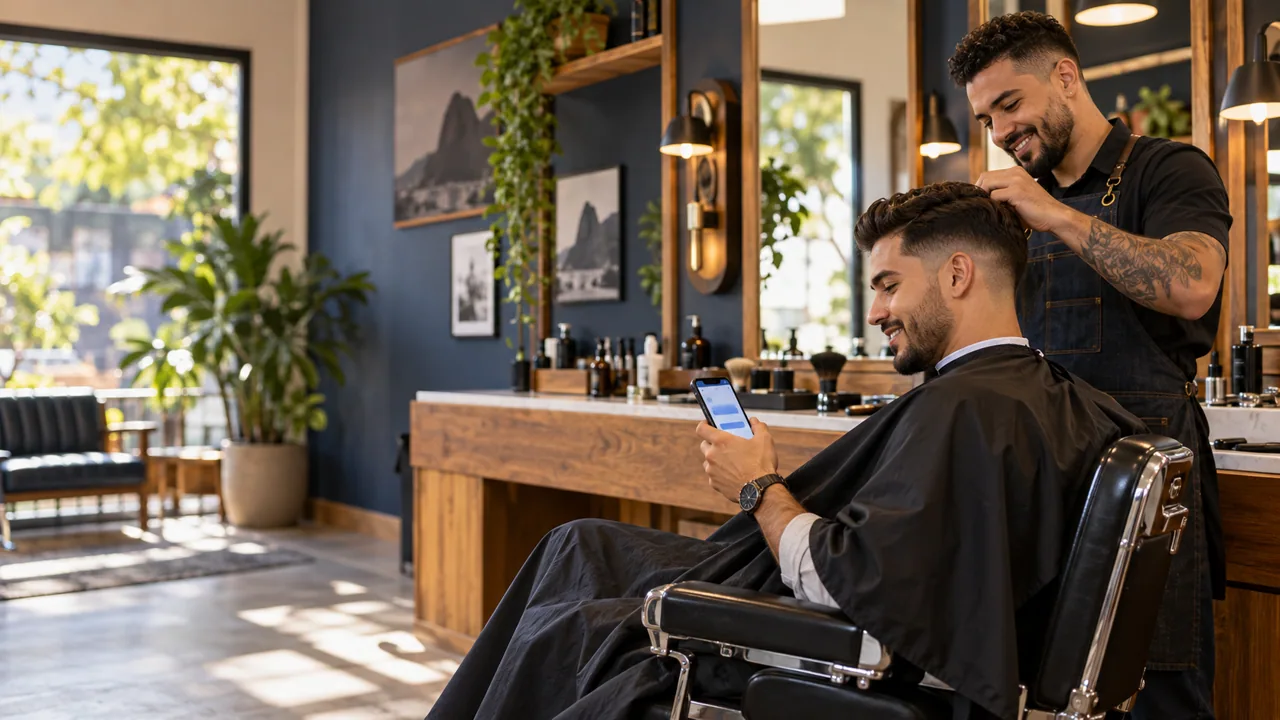
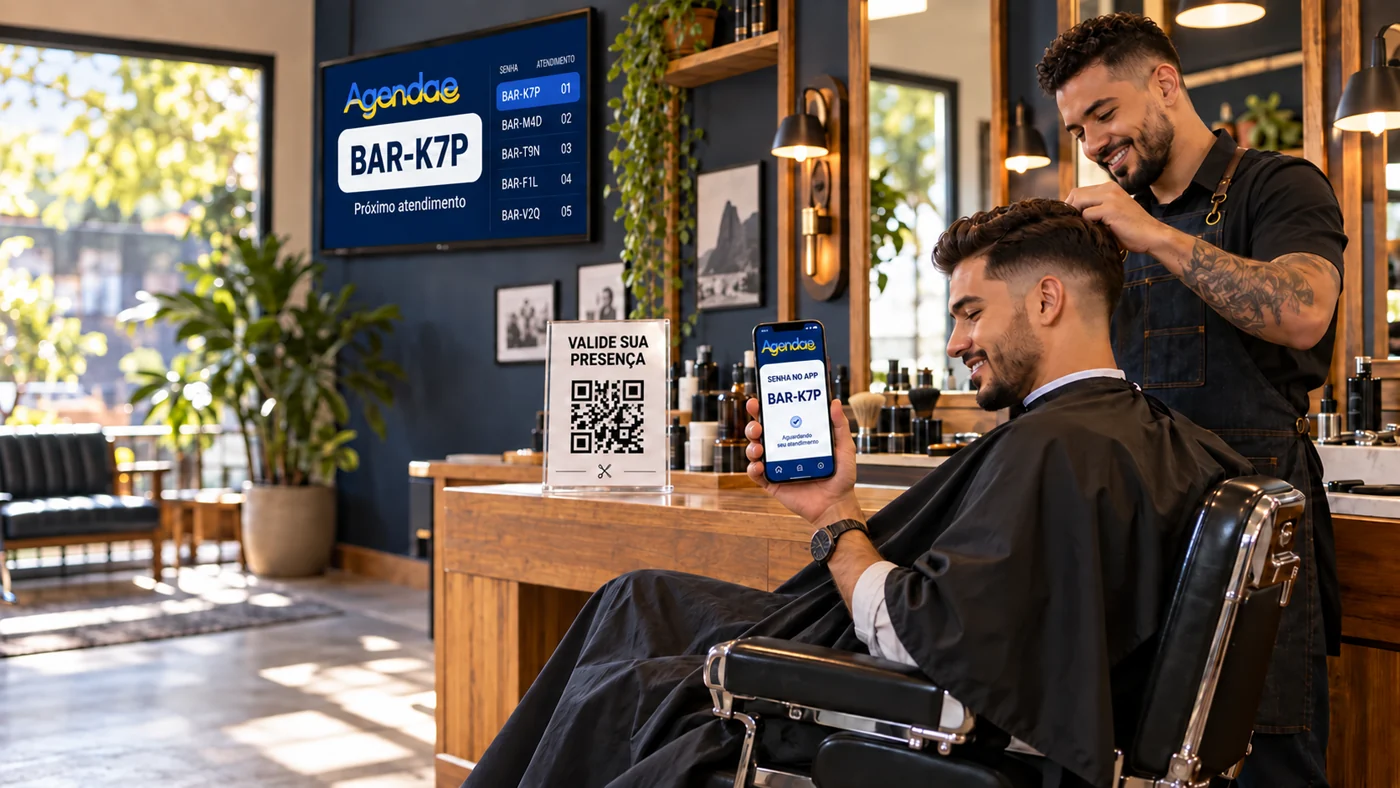
Integrate app tickets and QR signs into scenes

diff --git a/professional.js b/professional.js
@@ -407,15 +407,12 @@ function renderHome() {
   document.title = "Agendae — Sistema de agendamento para seu negócio";
   const partners = Object.values(establishments).filter(item => item.setupComplete !== false);
   const partnerOptions = partners.map(item => `<option value="${escapeHTML(item.slug)}">${escapeHTML(item.name)}</option>`).join("");
-  const barberQr = qrCodeMarkup("Agendae | Demonstração | Validar presença | Barbearia", "portfolio-qr-code");
-  const clinicQr = qrCodeMarkup("Agendae | Demonstração | Validar presença | Clínica", "portfolio-qr-code");
-  const foodQr = qrCodeMarkup("Agendae | Demonstração | Validar presença | Fast food", "portfolio-qr-code");
   app.innerHTML = `
     ${homeHeader()}
     <main class="portfolio-home">
-      <section class="portfolio-feature portfolio-barber" aria-labelledby="portfolio-barber-title"><div class="portfolio-feature-inner"><div class="portfolio-feature-copy"><span>BARBEARIAS</span><h1 id="portfolio-barber-title">Agende os atendimentos da sua barbearia</h1><p>O cliente escolhe o serviço e o profissional, recebe a senha no aplicativo e valida a presença pelo QR code.</p><div class="portfolio-feature-tags"><b>Serviços</b><b>Funcionários</b><b>Agendamento online</b></div>${whatsappSalesCta()}</div><div class="portfolio-feature-media"><img src="${href("/public/imagens/portfolio-barbearia.webp")}" alt="Cliente consulta a senha no aplicativo em uma barbearia"><div class="portfolio-wall-display"><small>PAINEL DA BARBEARIA</small><strong>MESMA SENHA NO PAINEL</strong><b class="portfolio-ticket-code">BAR-K7P</b><span>Próximo atendimento</span></div><div class="portfolio-app-card"><small>AGENDAMENTO CONFIRMADO</small><strong>Serviço e profissional</strong><label><span class="portfolio-app-icon">✦</span><span>Corte e acabamento<em>Profissional selecionado</em></span></label><div class="portfolio-presence-row"><span class="portfolio-app-password"><small>SENHA NO APP</small><strong>BAR-K7P</strong></span><span class="portfolio-qr-wrap">${barberQr}<em>Validar presença</em></span></div></div></div></div></section>
-      <section class="portfolio-feature portfolio-clinic" aria-labelledby="portfolio-clinic-title"><div class="portfolio-feature-inner"><div class="portfolio-feature-copy"><span>CLÍNICAS</span><h2 id="portfolio-clinic-title">Agenda clínica mais organizada com controle de pausas e senhas por especializações e profissionais</h2><p>Organize a rotina da clínica e permita que cada paciente acompanhe no aplicativo a mesma senha exibida no painel.</p><div class="portfolio-feature-tags"><b>Controle de pausas</b><b>Especializações</b><b>Profissionais</b></div>${whatsappSalesCta()}</div><div class="portfolio-feature-media"><img src="${href("/public/imagens/portfolio-clinica.webp")}" alt="Paciente consulta a senha no aplicativo em uma clínica com painel digital"><div class="portfolio-wall-display"><small>PAINEL DA CLÍNICA</small><strong>MESMA SENHA NO PAINEL</strong><b class="portfolio-ticket-code">CLN-A7K</b><span>Aguardando chamada</span></div><div class="portfolio-app-card portfolio-status-card"><small>SEU AGENDAMENTO</small><strong>Consulta confirmada</strong><span class="portfolio-status">Aguardando chamada</span><div class="portfolio-presence-row"><span class="portfolio-app-password"><small>SENHA NO APP</small><strong>CLN-A7K</strong></span><span class="portfolio-qr-wrap">${clinicQr}<em>Validar presença</em></span></div></div></div></div></section>
-      <section class="portfolio-feature portfolio-food" aria-labelledby="portfolio-food-title"><div class="portfolio-feature-inner"><div class="portfolio-feature-copy"><span>FAST FOOD</span><h2 id="portfolio-food-title">Painel de Senhas. Controle a ordem dos seus clientes, mais conforto para todos!</h2><p>A equipe controla a sequência dos pedidos enquanto cada cliente acompanha no aplicativo a mesma senha chamada no painel.</p><div class="portfolio-feature-tags"><b>Senhas do dia</b><b>Fila organizada</b><b>Painel de retirada</b></div>${whatsappSalesCta()}</div><div class="portfolio-feature-media"><img src="${href("/public/imagens/portfolio-fast-food.webp")}" alt="Clientes acompanham a senha no aplicativo em um fast food com painel digital"><div class="portfolio-wall-display"><small>PAINEL DE SENHAS</small><strong>MESMA SENHA NO PAINEL</strong><b class="portfolio-ticket-code">PED-M4Q</b><span>Dirija-se ao balcão</span></div><div class="portfolio-app-card portfolio-status-card food"><small>SENHAS DO DIA</small><strong>Pedido em chamada</strong><span class="portfolio-status">Retirada no balcão</span><div class="portfolio-presence-row"><span class="portfolio-app-password"><small>SENHA NO APP</small><strong>PED-M4Q</strong></span><span class="portfolio-qr-wrap">${foodQr}<em>Validar presença</em></span></div></div></div></div></section>
+      <section class="portfolio-feature portfolio-barber" aria-labelledby="portfolio-barber-title"><div class="portfolio-feature-inner"><div class="portfolio-feature-copy"><span>BARBEARIAS</span><h1 id="portfolio-barber-title">Agende os atendimentos da sua barbearia</h1><p>O cliente escolhe o serviço e o profissional, recebe a senha no aplicativo e valida a presença pelo QR code.</p><div class="portfolio-feature-tags"><b>Serviços</b><b>Funcionários</b><b>Agendamento online</b></div>${whatsappSalesCta()}</div><div class="portfolio-feature-media"><img src="${href("/public/imagens/portfolio-barbearia.webp")}" alt="Barbearia com aplicativo Agendae no celular, a mesma senha no painel do estabelecimento e placa física com QR code"></div></div></section>
+      <section class="portfolio-feature portfolio-clinic" aria-labelledby="portfolio-clinic-title"><div class="portfolio-feature-inner"><div class="portfolio-feature-copy"><span>CLÍNICAS</span><h2 id="portfolio-clinic-title">Agenda clínica mais organizada com controle de pausas e senhas por especializações e profissionais</h2><p>Organize a rotina da clínica e permita que cada paciente acompanhe no aplicativo a mesma senha exibida no painel.</p><div class="portfolio-feature-tags"><b>Controle de pausas</b><b>Especializações</b><b>Profissionais</b></div>${whatsappSalesCta()}</div><div class="portfolio-feature-media"><img src="${href("/public/imagens/portfolio-clinica.webp")}" alt="Clínica com aplicativo Agendae no celular, a mesma senha no painel do estabelecimento e placa física com QR code"></div></div></section>
+      <section class="portfolio-feature portfolio-food" aria-labelledby="portfolio-food-title"><div class="portfolio-feature-inner"><div class="portfolio-feature-copy"><span>FAST FOOD</span><h2 id="portfolio-food-title">Painel de Senhas. Controle a ordem dos seus clientes, mais conforto para todos!</h2><p>A equipe controla a sequência dos pedidos enquanto cada cliente acompanha no aplicativo a mesma senha chamada no painel.</p><div class="portfolio-feature-tags"><b>Senhas do dia</b><b>Fila organizada</b><b>Painel de retirada</b></div>${whatsappSalesCta()}</div><div class="portfolio-feature-media"><img src="${href("/public/imagens/portfolio-fast-food.webp")}" alt="Fast food com aplicativo Agendae no celular, a mesma senha no painel do estabelecimento e placa física com QR code"></div></div></section>
       <section class="portfolio-product" aria-labelledby="portfolio-product-title"><div class="portfolio-product-inner"><div class="portfolio-section-title"><span>PÁGINA DO ESTABELECIMENTO</span><h2 id="portfolio-product-title">Tudo que o cliente precisa para escolher.</h2></div><div class="portfolio-product-grid"><article class="portfolio-product-card portfolio-map-card"><div><small>LOCALIZAÇÃO</small><h3>Mapa do estabelecimento</h3><p>O cliente encontra o endereço do atendimento diretamente na página.</p></div><svg viewBox="0 0 420 220" role="img" aria-label="Ilustração de mapa com a localização do estabelecimento"><rect width="420" height="220" fill="#eaf0e8"/><path d="M0 38 121 0h65L34 220H0ZM234 0h42L152 220H107ZM395 0h25v57L312 220h-48Z" fill="#d7e7d2"/><path d="M-14 149 434 47M80-20l131 260M299-20l-56 260M-18 205 438 119" stroke="#fff" stroke-width="25"/><path d="M-14 149 434 47M80-20l131 260M299-20l-56 260M-18 205 438 119" stroke="#c6d4df" stroke-width="2"/><circle cx="252" cy="102" r="28" fill="#d7e7fb"/><path d="M252 75a20 20 0 0 0-20 20c0 17 20 37 20 37s20-20 20-37a20 20 0 0 0-20-20Z" fill="#2059b6"/><circle cx="252" cy="95" r="7" fill="#fff"/></svg><strong class="portfolio-address">Endereço do seu estabelecimento</strong></article><article class="portfolio-product-card"><small>SERVIÇOS</small><h3>Catálogo de atendimentos</h3><div class="portfolio-demo-list"><span class="portfolio-app-icon">✦</span><span><strong>Serviço principal</strong><em>Descrição do atendimento</em></span></div><div class="portfolio-demo-list"><span class="portfolio-app-icon">◇</span><span><strong>Atendimento personalizado</strong><em>Disponível para agendamento</em></span></div></article><article class="portfolio-product-card"><small>FUNCIONÁRIOS</small><h3>Equipe do estabelecimento</h3><div class="portfolio-demo-list"><span class="portfolio-avatar">A</span><span><strong>Profissional especializado</strong><em>Escolha para seu atendimento</em></span></div><div class="portfolio-demo-list"><span class="portfolio-avatar green">B</span><span><strong>Equipe disponível</strong><em>Perfis apresentados ao cliente</em></span></div></article></div></div></section>
       <section class="home-partners portfolio-partners"><div><span>ACESSO À AGENDA</span><h2>Estabelecimentos Parceiros</h2><p>Selecione um estabelecimento para abrir sua página.</p></div><div class="partner-field"><label for="partner-select">Estabelecimentos Parceiros</label><select id="partner-select" ${partners.length ? "" : "disabled"}><option value="">${!catalogLoaded ? "Carregando estabelecimentos…" : partners.length ? "Selecione um estabelecimento" : "Nenhum parceiro disponível"}</option>${partnerOptions}</select></div></section>
     </main>${systemAccessModal()}`;

diff --git a/professional.css b/professional.css
@@ -172,33 +172,11 @@ img { display: block; max-width: 100%; }
 .portfolio-feature-media { position: relative; min-height: 500px; overflow: hidden; border-radius: 24px; background: #dfe8f3; box-shadow: 0 28px 65px rgba(12,42,91,.15); }
 .portfolio-feature-media::after { content: ""; position: absolute; inset: 0; background: linear-gradient(100deg,rgba(7,27,63,.08),transparent 55%); pointer-events: none; }
 .portfolio-feature-media>img { width: 100%; height: 500px; object-fit: cover; }
-.portfolio-app-card { position: absolute; z-index: 2; left: 22px; bottom: 22px; width: min(310px,calc(100% - 44px)); padding: 18px; border: 1px solid rgba(255,255,255,.8); border-radius: 15px; background: rgba(255,255,255,.96); box-shadow: 0 18px 38px rgba(7,27,63,.25); backdrop-filter: blur(8px); }
-.portfolio-app-card>small { display: block; margin-bottom: 6px; color: var(--blue); font-size: 8px; font-weight: 800; letter-spacing: 1px; }
-.portfolio-app-card>strong { display: block; margin: 10px 0 6px; color: var(--navy); font: 800 13px "Manrope",sans-serif; }
-.portfolio-app-card>label { padding: 9px; display: flex; align-items: center; gap: 9px; border: 1px solid #e1e8f2; border-radius: 9px; color: #263954; background: #fbfdff; font-size: 10px; font-weight: 800; }
-.portfolio-app-card label+strong { margin-top: 13px; }
-.portfolio-app-card label em,.portfolio-demo-list em { display: block; margin-top: 2px; color: #8795a8; font-size: 8px; font-style: normal; font-weight: 600; }
+.portfolio-clinic .portfolio-feature-media>img,.portfolio-food .portfolio-feature-media>img { object-position: 70% center; }
+.portfolio-demo-list em { display: block; margin-top: 2px; color: #8795a8; font-size: 8px; font-style: normal; font-weight: 600; }
 .portfolio-app-icon,.portfolio-avatar { width: 30px; height: 30px; display: grid; place-items: center; flex: 0 0 auto; border-radius: 8px; color: var(--blue); background: #e7f0ff; font-size: 14px; font-weight: 800; }
 .portfolio-avatar { color: #fff; background: var(--navy-2); font-size: 10px; }
 .portfolio-avatar.green { background: #238263; }
-.portfolio-status-card>strong { margin-top: 3px; font-size: 16px; }
-.portfolio-status { margin: 12px 0 9px; padding: 11px; display: block; border: 1px solid #dbe7f5; border-radius: 9px; color: var(--navy); background: #f3f8ff; font-size: 11px; font-weight: 800; }
-.portfolio-status-card>em { color: #718299; font-size: 9px; font-style: normal; }
-.portfolio-status-card.food .portfolio-status { border-color: #eedca2; color: #775313; background: #fff9e9; }
-.portfolio-wall-display { position: absolute; z-index: 2; top: 22px; right: 22px; width: 210px; padding: 17px; border: 1px solid rgba(255,255,255,.25); border-radius: 13px; color: #fff; background: rgba(7,27,63,.92); box-shadow: 0 16px 32px rgba(7,27,63,.25); }
-.portfolio-wall-display small,.portfolio-wall-display strong,.portfolio-wall-display span,.portfolio-wall-display b { display: block; }
-.portfolio-wall-display small { color: #b8cdec; font-size: 8px; font-weight: 800; letter-spacing: 1px; }
-.portfolio-wall-display strong { margin-top: 7px; color: #dbe7f7; font: 800 9px "Manrope",sans-serif; letter-spacing: .5px; }
-.portfolio-ticket-code { margin-top: 5px; color: #fff; font: 800 28px/1 "Manrope",sans-serif; letter-spacing: 1px; }
-.portfolio-wall-display span { margin-top: 4px; color: #dbe7f7; font-size: 10px; }
-.portfolio-presence-row { margin-top: 13px; padding-top: 12px; display: flex; align-items: center; justify-content: space-between; gap: 14px; border-top: 1px solid #dce5f1; }
-.portfolio-app-password small,.portfolio-app-password strong { display: block; }
-.portfolio-app-password small { color: #61738b; font-size: 8px; font-weight: 800; letter-spacing: .7px; }
-.portfolio-app-password strong { margin-top: 3px; color: var(--navy); font: 800 21px/1 "Manrope",sans-serif; letter-spacing: .6px; }
-.portfolio-qr-wrap { display: flex; align-items: center; gap: 8px; }
-.portfolio-qr-wrap em { max-width: 52px; color: #52657e; font-size: 8px; font-style: normal; font-weight: 800; line-height: 1.2; }
-.portfolio-qr-code { width: 54px; height: 54px; padding: 3px; display: grid; place-items: center; overflow: hidden; border: 1px solid #dbe4f0; border-radius: 6px; background: #fff; }
-.portfolio-qr-code svg { width: 100%; height: 100%; display: block; }
 .portfolio-clinic .portfolio-feature-copy h2,.portfolio-food .portfolio-feature-copy h2 { font-size: clamp(29px,3.1vw,43px); }
 .portfolio-product { padding: 92px 0; background: #071b3f; }
 .portfolio-product-inner { width: min(1180px,calc(100% - 48px)); margin: auto; }
@@ -249,9 +227,8 @@ img { display: block; max-width: 100%; }
   .portfolio-whatsapp-button { width: 100%; }
   .portfolio-feature-media,.portfolio-feature-media>img { min-height: 410px; height: 410px; }
   .portfolio-feature-media>img { object-position: 57% center; }
-  .portfolio-app-card { left: 12px; bottom: 12px; width: calc(100% - 24px); padding: 14px; }
-  .portfolio-wall-display { top: 12px; right: 12px; width: 170px; padding: 12px; }
-  .portfolio-ticket-code { font-size: 23px; }
+  .portfolio-barber .portfolio-feature-media>img { object-position: 55% center; }
+  .portfolio-clinic .portfolio-feature-media>img,.portfolio-food .portfolio-feature-media>img { object-position: 76% center; }
   .portfolio-product-card { padding: 20px; }
   .portfolio-map-card svg { height: 165px; }
 }
